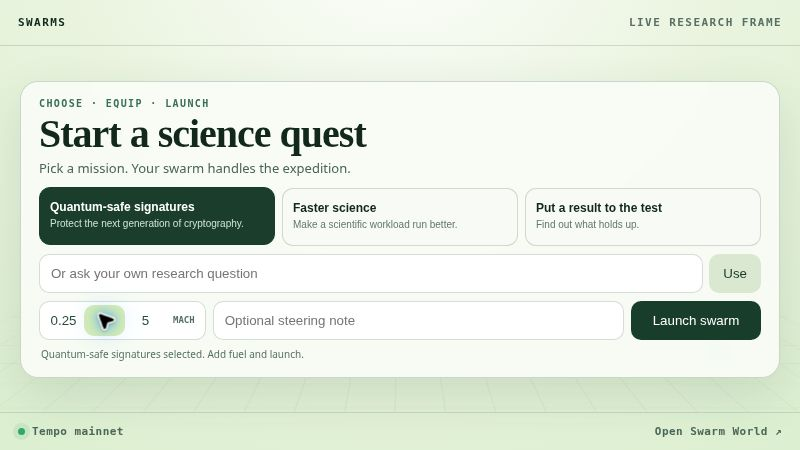
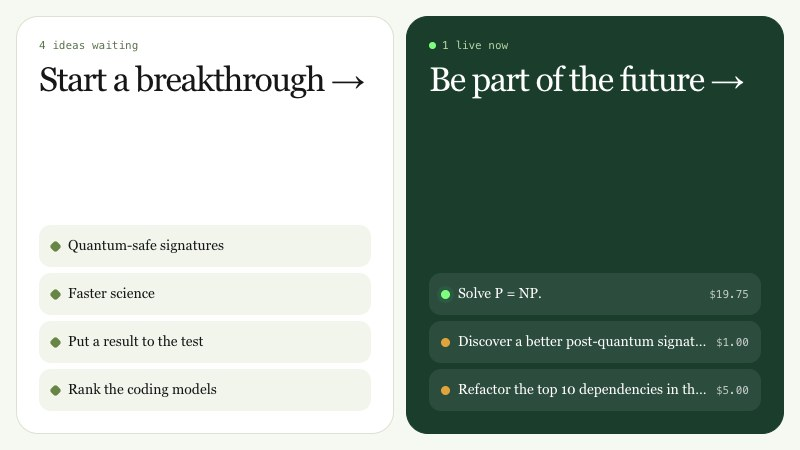
feat: make the home, join and new pages X player cards, and retake the card image from the current frame

diff --git a/src/worker/Page.ts b/src/worker/Page.ts
@@ -72,13 +72,14 @@ type Head = { description: string; image: string; player?: string; title: string
 
 async function gather(env: Cloudflare.Env, url: URL): Promise<{ data: Record<string, unknown>; head: Head; status: number }> {
   const path = url.pathname.replace(/\/$/, '') || '/'
-  const head: Head = { description: 'Fund research breakthroughs. Start or back AI research swarms, watch them work live and steer them together.', image: `${url.origin}/xframe-card.jpg`, title: 'Swarms · Fund breakthroughs' }
+  const head: Head = { description: 'Fund research breakthroughs. Start or back AI research swarms, watch them work live and steer them together.', image: `${url.origin}/xframe-card.jpg?v=2`, title: 'Swarms · Fund breakthroughs' }
   const data: Record<string, unknown> = {}
   if (path === '/' || path === '/join' || path === '/new') {
     const list = await within(Operations.list(env, {}), 1500)
     if (list?.ok) data['swarms'] = list.value
     if (path === '/join') head.title = 'Be part of the future · Swarms'
     if (path === '/new') head.title = 'Start a breakthrough · Swarms'
+    head.player = `${url.origin}/x${path === '/join' ? '?view=join' : path === '/new' ? '?view=start' : ''}`
     return { data, head, status: 200 }
   }
   if (path === '/about') return { data, head: { ...head, title: 'About · Swarms' }, status: 200 }

diff --git a/src/worker/XFrames.ts b/src/worker/XFrames.ts
@@ -40,7 +40,7 @@ function backers(count: number) {
 
 function document(origin: string, path: string, title: string, description: string, content: string, context: object, status = 200, request?: URL) {
   const url = `${origin}${path}`
-  const image = `${origin}/xframe-card.jpg`
+  const image = `${origin}/xframe-card.jpg?v=2`
   const hosted = request !== undefined && !request.searchParams.has('xframes-content')
   const tags = `<meta charset="utf-8">
 <meta name="viewport" content="width=device-width,initial-scale=1,maximum-scale=1,viewport-fit=cover">

diff --git a/AGENTS.md b/AGENTS.md
@@ -20,6 +20,7 @@ A community-funded science project on the Tempo gateway (https://gateway.tempo-d
 - `New.tsx` is a three-step quest flow after the Path step, which links back home: Choose, Equip, Launch. Starter cards preserve the full scientific briefs in `shared/ResearchBrief.ts`; a custom question gets an editable evidence brief. No swarm is created until the final launch action. Back navigation preserves the budget and brief. Wallet permissions remain available before launch, and funding still requires Tempo Wallet approval. Token choices and priority notes are optional setup details.
 - The X cards (`XFrames.ts`, redesigned 2026-11-02, the user's request: the home, starting or joining, and a room with its chat and funding) are one player each, switching views inside the frame. `GET /x` opens on two doors like the app's home, Start a breakthrough (open ideas as chips) and Be part of the future (how many are live or open, two swarms as chips); Start shows four open ideas and Your own idea as flush rows beside a big dollar amount with $2, $5 and $10 and Launch, which creates the swarm only when pressed; Join lists open swarms, each opening its own card `/x/s/:id`. A swarm's card is its room in miniature: status dot, title, raised and backers and Fund (Result ↗ once done), Transcript and Room tabs (the room's tab shows how many back it), the transcript from `/feed` with what the agent is writing streamed from `/live`, steers woven in with their $ chips, the chat from `/chat`, and an @swarm composer that shows $2, $5 and $10 once there is text and pledges that amount behind the note. Every payment is a MACH pledge through Tempo Wallet's device flow: Approve in Tempo Wallet with the user code large and Cancel, then You're in with Watch it and Share, or a failure (declined, timed out, anything else) with Try again; an unknown swarm answers 404 with Start one and Join one. `?view=`, `?tab=chat`, `?pick=`, `?note=`, `?demo` and `?scene=wait|done|declined|expired` with `go` put a card into any state without the API, for the storyboard's X cards section. The pages publish `twitter:card=player`, Open Graph metadata and an 800×450 preview image, follow xframes' opaque-origin sandbox and no-scroll conventions, and stack into one column under 560 px.
 - X cards are served the way tempoxyz/xframes serves frames (`src/frames.ts` `documentHtml` and `public/player.js`, 2026-11-02, the user's request): `/x` and `/x/s/:id` answer a trusted player page, with the card tags, no CSP sandbox (`object-src 'none'; base-uri 'none'`) and one iframe sandboxed with `allow-scripts allow-forms allow-popups allow-popups-to-escape-sandbox` at the same URL with `xframes-content`, which is the card itself under the CSP sandbox, an opaque origin. X's player iframe has no `allow-popups-to-escape-sandbox`, so a popup from the card would inherit the sandbox and Tempo Wallet would open as an opaque origin (checked in Chrome under X's nested sandboxes: from production's card the wallet popup had origin `null`). The card posts `{type: 'swarms:open', url}` for every `target=_blank` link and the player opens it, only for Tempo Wallet with a `user_code` (a 460×760 popup, or navigating itself when popups are blocked), this app's `/s/` and `/x/` pages and X's post intent. Links to other cards keep `xframes-content` so they stay inside the player. Checked on 2026-11-02 under `wrangler dev` inside X's two sandboxes: the card loaded with origin `null`, Open Tempo Wallet opened `https://wallet.tempo.xyz/?user_code=…` with its own origin, and Join one stayed in the inner frame.
+- `/`, `/join` and `/new` are player cards too (2026-11-02: a post of the home page showed a static image of the old design), playing `/x`, `/x?view=join` and `/x?view=start`, and `/s/:id` plays `/x/s/:id`. `public/xframe-card.jpg` is an 800×450 screenshot of `/x?xframes-content` (`.scratch/card.mjs`), linked as `?v=2` so X fetches it again; retake it and bump `v` when the card's look changes.
 - One swarm is one agent in one long thread (the user's request of 2026-11-02: "no notion of rounds anywhere", "no lead researcher, explorers or directions", "the upstream mechanism handles it"). Each gateway turn of the agent ends with a reply, and that reply is an update (`Update`: `at`, `text`, `done`, `spent`, `base`, `commits`). Unless its last line is `STATUS: done`, the Durable Object tells the agent to keep going (`next`), with the money left, the repository, the artifacts, lent hands and the notes by weight; a turn that ended less than 60 s after it started waits out the rest of that minute first (`quickMs`), so an agent that only says it is waiting cannot loop many times a minute, and a steer while it waits wakes it at once. A steer while a turn runs goes into it (`steer: true`, `Steer.live`); otherwise its note is in the next continuation. `since` marks an unbroken stretch of work, from the first turn after the swarm was idle until it pauses or finishes, and `Detail.working` (`{since}`) is set for that whole stretch, between turns too, so the page says "Working for 3h 06m" rather than counting turns. Machines persist between updates while their lease lasts (the prompt says so); sandboxes are swept only when the swarm pauses or finishes.
 - Subagents are the runtime's own: the agent spawns them with `spawn_agent` when it wants help (the prompt does not ask for any), and their events reach the turn's event stream as `source: "subagent"` with `update.type` `added`, `event`, `status`, `completion` or `message` (gakonst/nanocode `crates/runtime/agent/src/session_events.rs`, commit f6dfa4e). `Trail.subagent` names each by its role (`role #<id>` when two share one), narrates its tool calls, outputs, messages and thoughts like the agent's, and logs its completion once with its output (up to 20,000 characters); the feed stores the name in `who` (null for the agent itself). The researcher tracking that came before (`shared/Research.ts`, the `researchers` table, `Detail.researchers`, money-sized explorer parallelism with `perWorker` and up to three explorers, the lead's output contract) is gone.
 - The swarm page is a workspace (the user's request of 2026-11-01: the transcript is the main view, the room to its right): a compact head (status, how long the agent has been working or when it last posted, title, raised, spent, left, backers and a Back it button), then tabs over the main column, Transcript (`Transcript.tsx`, kept mounted), Artifacts (below), Back it (the contribution box, the ledger, the notes and the funding record), Code, Machines (lent hands and Connect) and About (the question and how a swarm works), with the room (`Room.tsx`) as a column on the right. From 1100 px wide the room is a column; narrower, it is a tab after Transcript, kept mounted (hidden) so its socket stays open, with a count of messages that arrived while it was hidden. The agent's updates are its replies in the transcript, and the API still serves them (`/updates`, `swarm_updates`); the page has no Updates tab since the user's request of 2026-11-02. The tab is the URL's hash (`#about`, `#fund`, `#room`…), and `?fund=` links open Back it.
